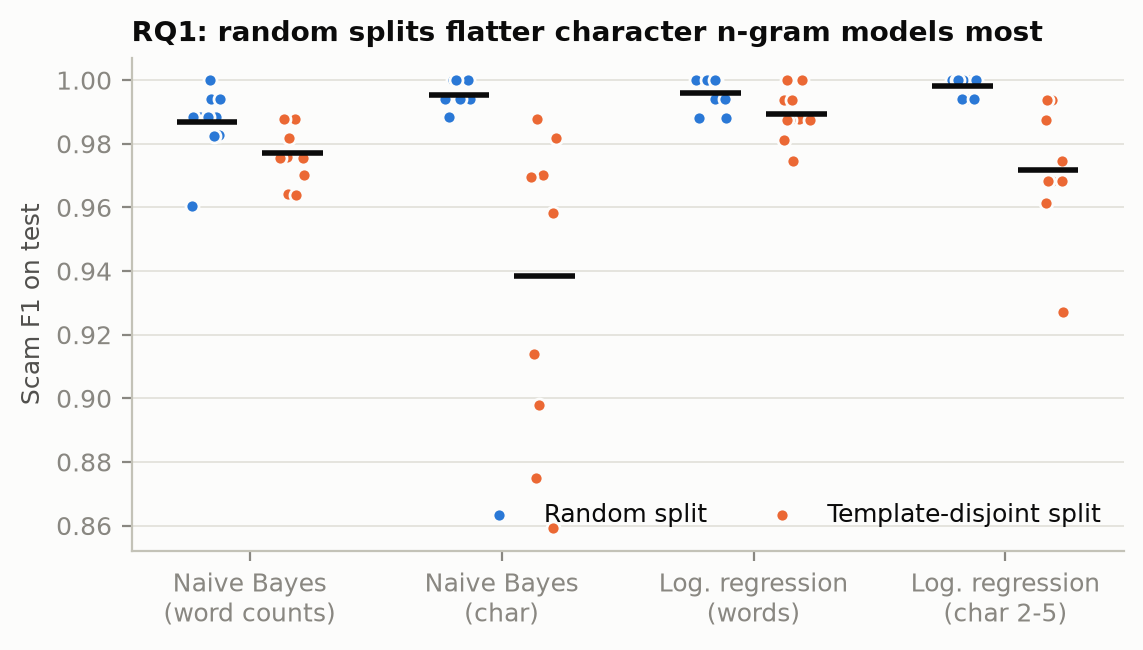
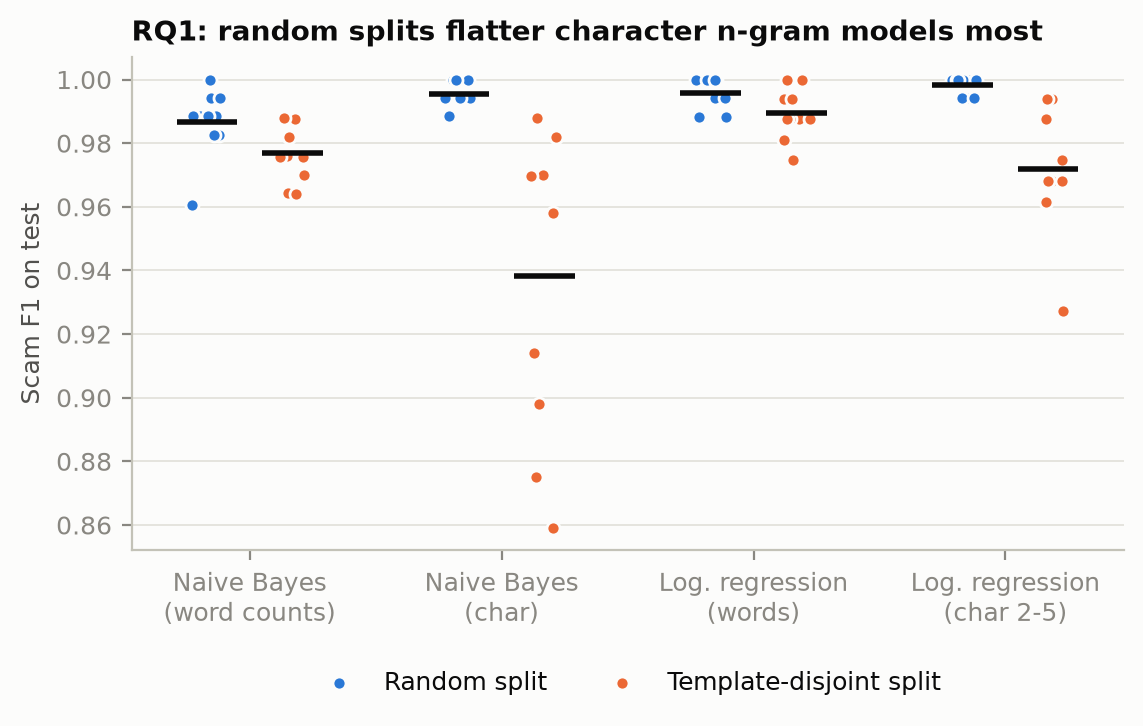
Add a transformer training-curves figure and keep legends off the data
- figures: new training_curves.png from results/transformer_log.jsonl, showing
  validation F1 per run and epoch, validation loss, and the epoch early stopping
  kept for all nine transformer runs on the template split
- figures: move the RQ1 and RQ2-attack legends below the plots, where they no
  longer cover data points
- docs/results.md: show the new figure

diff --git a/src/figures.py b/src/figures.py
@@ -62,7 +62,7 @@ def rq1_repeated_splits(by_seed: pd.DataFrame) -> None:
     ax.set_xticks(range(len(order)), [MODELS[m][0].replace(" (", "\n(") for m in order])
     ax.set_ylabel("Scam F1 on test")
     ax.set_title("RQ1: random splits flatter character n-gram models most", loc="left")
-    ax.legend(loc="lower right", ncol=2)
+    ax.legend(loc="upper center", bbox_to_anchor=(0.5, -0.2), ncol=2)   # below the axis, clear of every point
     ax.grid(axis="x", visible=False)
     save(fig, "rq1_repeated_splits")
 
@@ -87,10 +87,11 @@ def rq2_attacks(summary: pd.DataFrame) -> None:
         ax.set_xticks(xs, xl)
         ax.set_title(title, loc="left")
     axes[0].set_ylabel("Relative F1 drop (%)")
-    axes[0].legend(loc="upper left", fontsize=7.5)
     fig.suptitle("RQ2: disguise breaks word-based models; transformers are not hurt (see the E6 control for why)",
                  x=0.01, ha="left", fontweight="bold", fontsize=10.5)
     fig.tight_layout()
+    handles, labels = axes[0].get_legend_handles_labels()   # one legend under the panels, clear of the lines
+    fig.legend(handles, labels, loc="upper center", bbox_to_anchor=(0.5, 0.0), ncol=len(labels), fontsize=7.5)
     save(fig, "rq2_attacks")
 
 
@@ -219,6 +220,49 @@ def e10_stress(stress: pd.DataFrame) -> None:
     save(fig, "e10_stress_tests")
 
 
+def training_curves() -> None:
+    """Validation F1 and loss per epoch for every logged transformer run on the template split."""
+    log = pd.read_json(config.RESULTS / "transformer_log.jsonl", lines=True)
+    styles = {("xlmr", "clean"): ("XLM-R", MODELS["xlmr"][1], "-"),
+              ("afroxlmr", "clean"): ("AfroXLMR", MODELS["afroxlmr"][1], "-"),
+              ("afroxlmr", "counterfactual"): ("AfroXLMR, number-balanced", "#9c3d6e", "--")}
+    log = log[(log["split"] == "template") & log.apply(lambda r: (r["model"], r["variant"]) in styles, axis=1)]
+    log = log.assign(order=log.apply(lambda r: list(styles).index((r["model"], r["variant"])), axis=1)).sort_values(["order", "seed"])
+    fig, (ax1, ax2) = plt.subplots(1, 2, figsize=(9.6, 3.6), gridspec_kw={"width_ratios": [1, 1.15]})
+    seen = set()
+    for row, (_, run) in enumerate(log.iterrows()):
+        label, colour, dash = styles[(run["model"], run["variant"])]
+        hist = pd.DataFrame(run["history"])
+        best = hist.sort_values(["val_f1", "val_loss"], ascending=[False, True]).iloc[0]   # the epoch kept
+        # (a) one row per run: dark = F1 1.000, pale = 0.994 (one validation error in 152), ring = epoch kept
+        for _, h in hist.iterrows():
+            ax1.scatter(h["epoch"], row, s=70, color=colour, alpha=1.0 if h["val_f1"] >= 0.9999 else 0.3, zorder=3)
+        ax1.scatter(best["epoch"], row, s=170, facecolor="none", edgecolor=INK, linewidth=1.2, zorder=4)
+        # (b) validation loss per epoch
+        name = None if label in seen else label
+        seen.add(label)
+        ax2.plot(hist["epoch"], hist["val_loss"], color=colour, linestyle=dash, linewidth=1.6, marker="o", markersize=3.5,
+                 label=name)
+        ax2.scatter([best["epoch"]], [best["val_loss"]], s=60, facecolor="none", edgecolor=INK, linewidth=1.2, zorder=4)
+    ax1.set_yticks(range(len(log)), [f"{styles[(r.model, r.variant)][0]}, seed {r.seed}" for r in log.itertuples()])
+    ax1.invert_yaxis()
+    ax1.set_xticks(range(1, 6))
+    ax1.set_xlim(0.5, 5.5)
+    ax1.set_xlabel("Epoch (dark: F1 1.000; pale: 0.994, one error in 152)")
+    ax1.set_title("(a) Validation F1 per run", loc="left")
+    ax1.grid(axis="y", visible=False)
+    ax2.set_yscale("log")
+    ax2.set_xticks(range(1, 6))
+    ax2.set_xlabel("Epoch")
+    ax2.set_ylabel("Validation loss (log scale)")
+    ax2.set_title("(b) Validation loss", loc="left")
+    ax2.legend(loc="upper center", bbox_to_anchor=(0.5, -0.2), ncol=3, fontsize=7.5)   # below, clear of the lines
+    fig.suptitle("Validation F1 is 0.99 to 1.00 from the first epoch in every run; rings mark the epoch kept",
+                 x=0.01, ha="left", fontweight="bold", fontsize=10.5)
+    fig.tight_layout()
+    save(fig, "training_curves")
+
+
 def main() -> None:
     summary = pd.read_csv(config.RESULTS / "experiments.csv")
     by_seed = pd.read_csv(config.RESULTS / "experiments_by_seed.csv")
@@ -226,6 +270,7 @@ def main() -> None:
     rq2_attacks(summary)
     rq2_defences(summary)
     rq3_transfer(summary)
+    training_curves()
     stress = config.RESULTS / "stress_tests.csv"
     if stress.exists():
         e10_stress(pd.read_csv(stress))

diff --git a/docs/results.md b/docs/results.md
@@ -30,6 +30,7 @@ Template-disjoint split (no scam script in both train and test). Full tables for
 ![RQ2 attacks](../results/figures/rq2_attacks.png)
 ![RQ2 defences](../results/figures/rq2_defences.png)
 ![RQ3](../results/figures/rq3_transfer.png)
+![Transformer training curves](../results/figures/training_curves.png)
 
 ## Experiments
 
